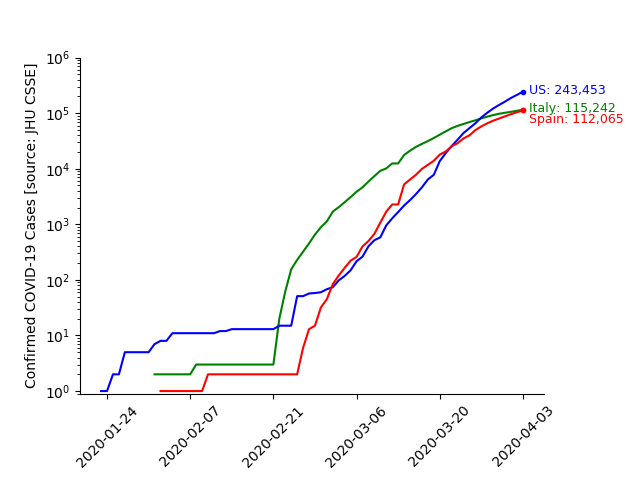
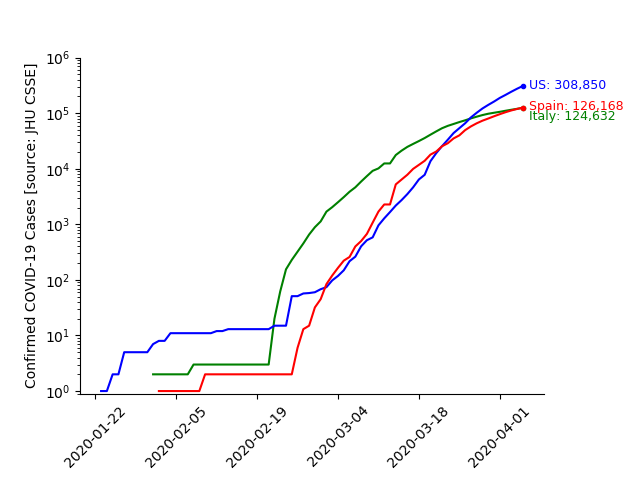
2020-04-04 updates

diff --git a/plot_cases.py b/plot_cases.py
@@ -40,7 +40,7 @@ fig, ax = plt.subplots()
 
 plt.semilogy(dates[np.where(cases_it>0)[0][0]:], cases_it[cases_it>0], 'g-')
 plt.semilogy(dates[-1], cases_it[-1], 'g.')
-ax.annotate('Italy: {:,}'.format(cases_it[-1]), (dates[-1]+dt.timedelta(days=1), 0.90*cases_it[-1]), color='green', fontsize=9)
+ax.annotate('Italy: {:,}'.format(cases_it[-1]), (dates[-1]+dt.timedelta(days=1), 0.60*cases_it[-1]), color='green', fontsize=9)
 
 plt.semilogy(dates[np.where(cases_us>0)[0][0]:], cases_us[cases_us>0], 'b-')
 plt.semilogy(dates[-1], cases_us[-1], 'b.')
@@ -48,7 +48,7 @@ ax.annotate('US: {:,}'.format(cases_us[-1]), (dates[-1]+dt.timedelta(days=1), 0.
 
 plt.semilogy(dates[np.where(cases_es>0)[0][0]:], cases_es[cases_es>0], 'r-')
 plt.semilogy(dates[-1], cases_es[-1], 'r.')
-ax.annotate('Spain: {:,}'.format(cases_es[-1]), (dates[-1]+dt.timedelta(days=1), 0.60*cases_es[-1]), color='red', fontsize=9)
+ax.annotate('Spain: {:,}'.format(cases_es[-1]), (dates[-1]+dt.timedelta(days=1), 0.90*cases_es[-1]), color='red', fontsize=9)
 
 #plt.semilogy(dates[np.where(cases_sk>0)[0][0]:], cases_sk[cases_sk>0], '.-', label='South Korea')
 #plt.semilogy(dates[np.where(cases_jp>0)[0][0]:], cases_jp[cases_jp>0], '.-', label='Japan')
